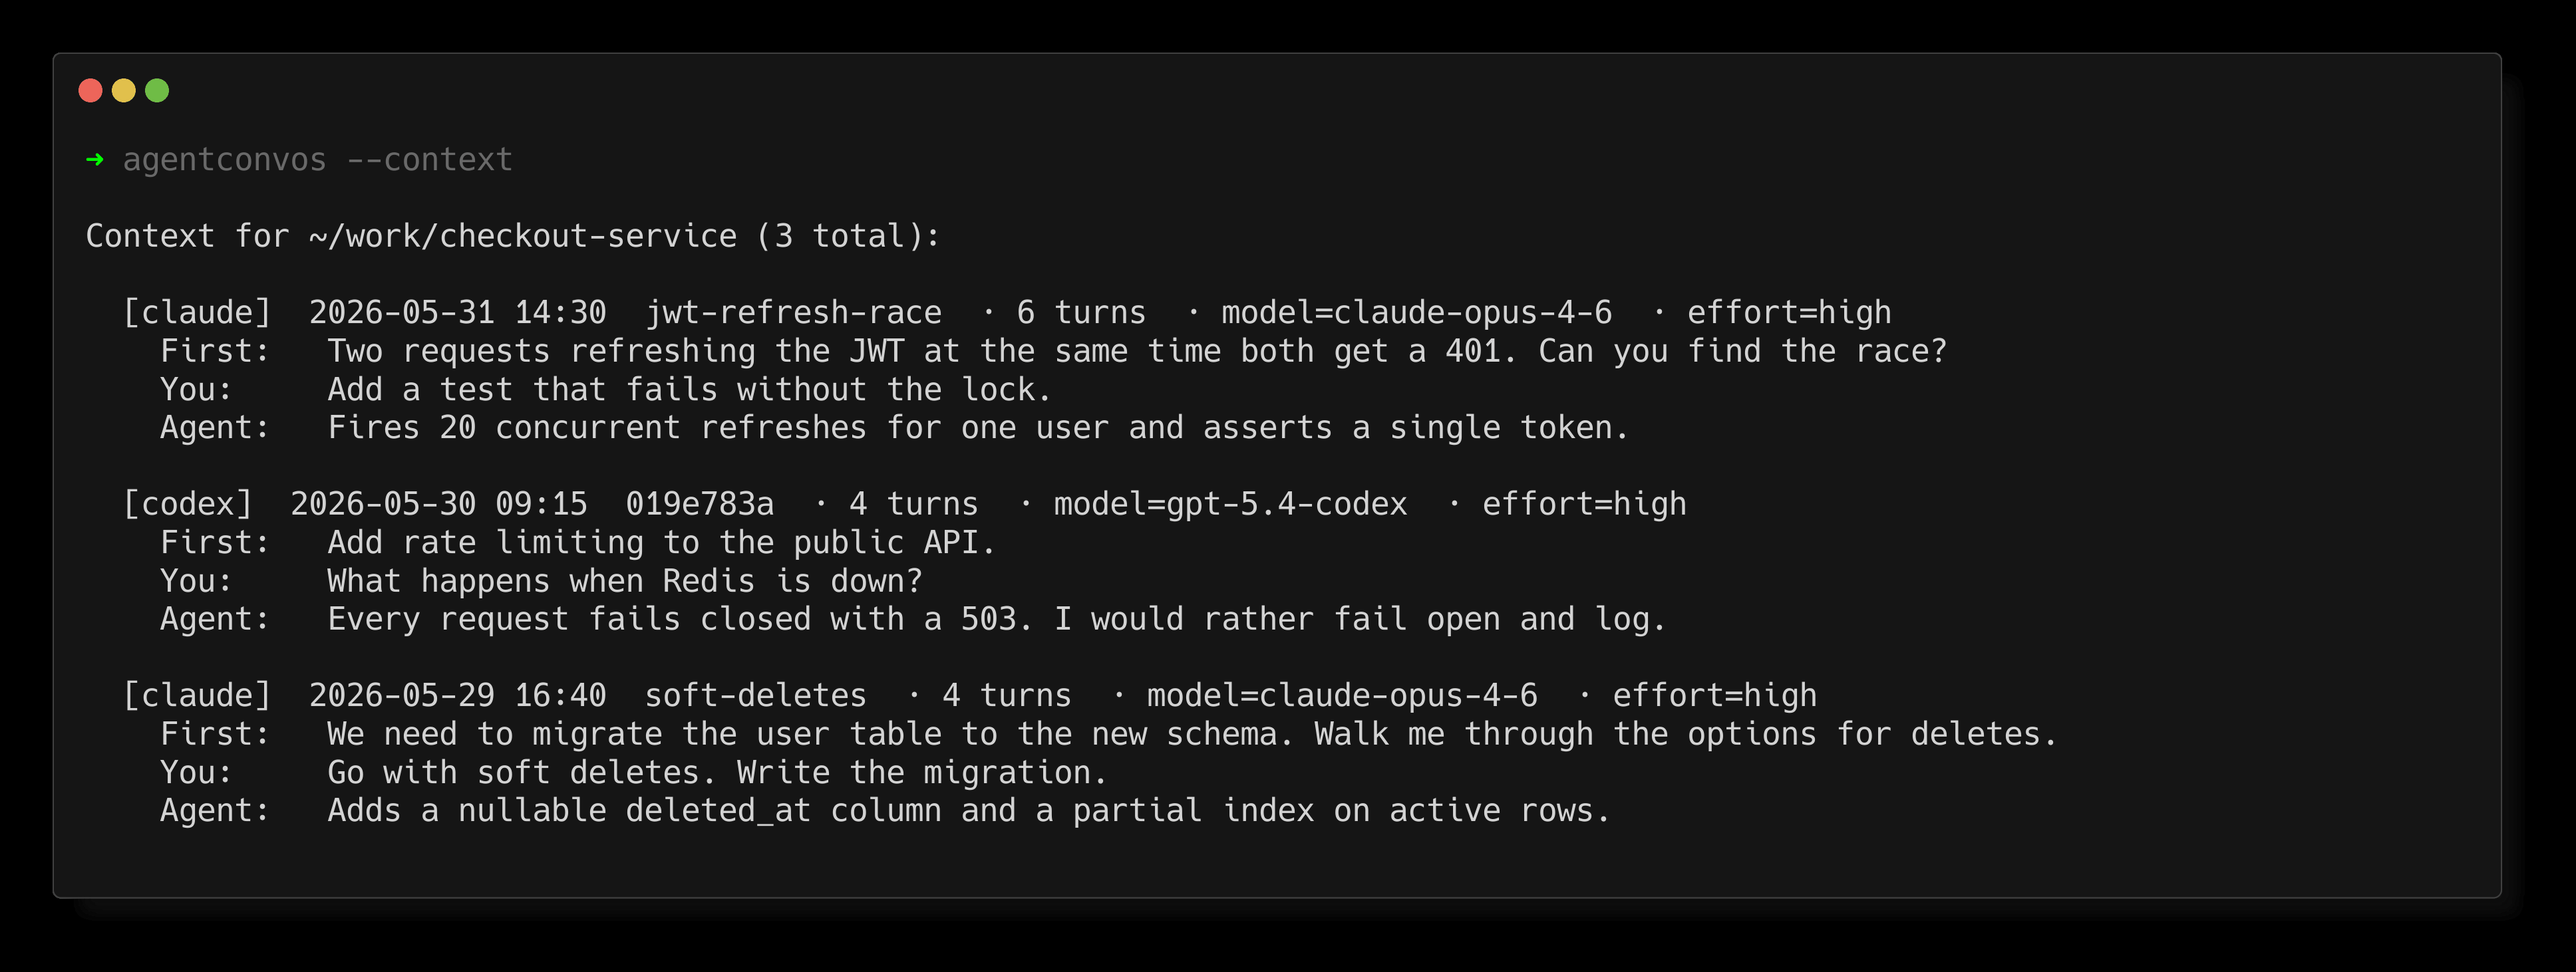
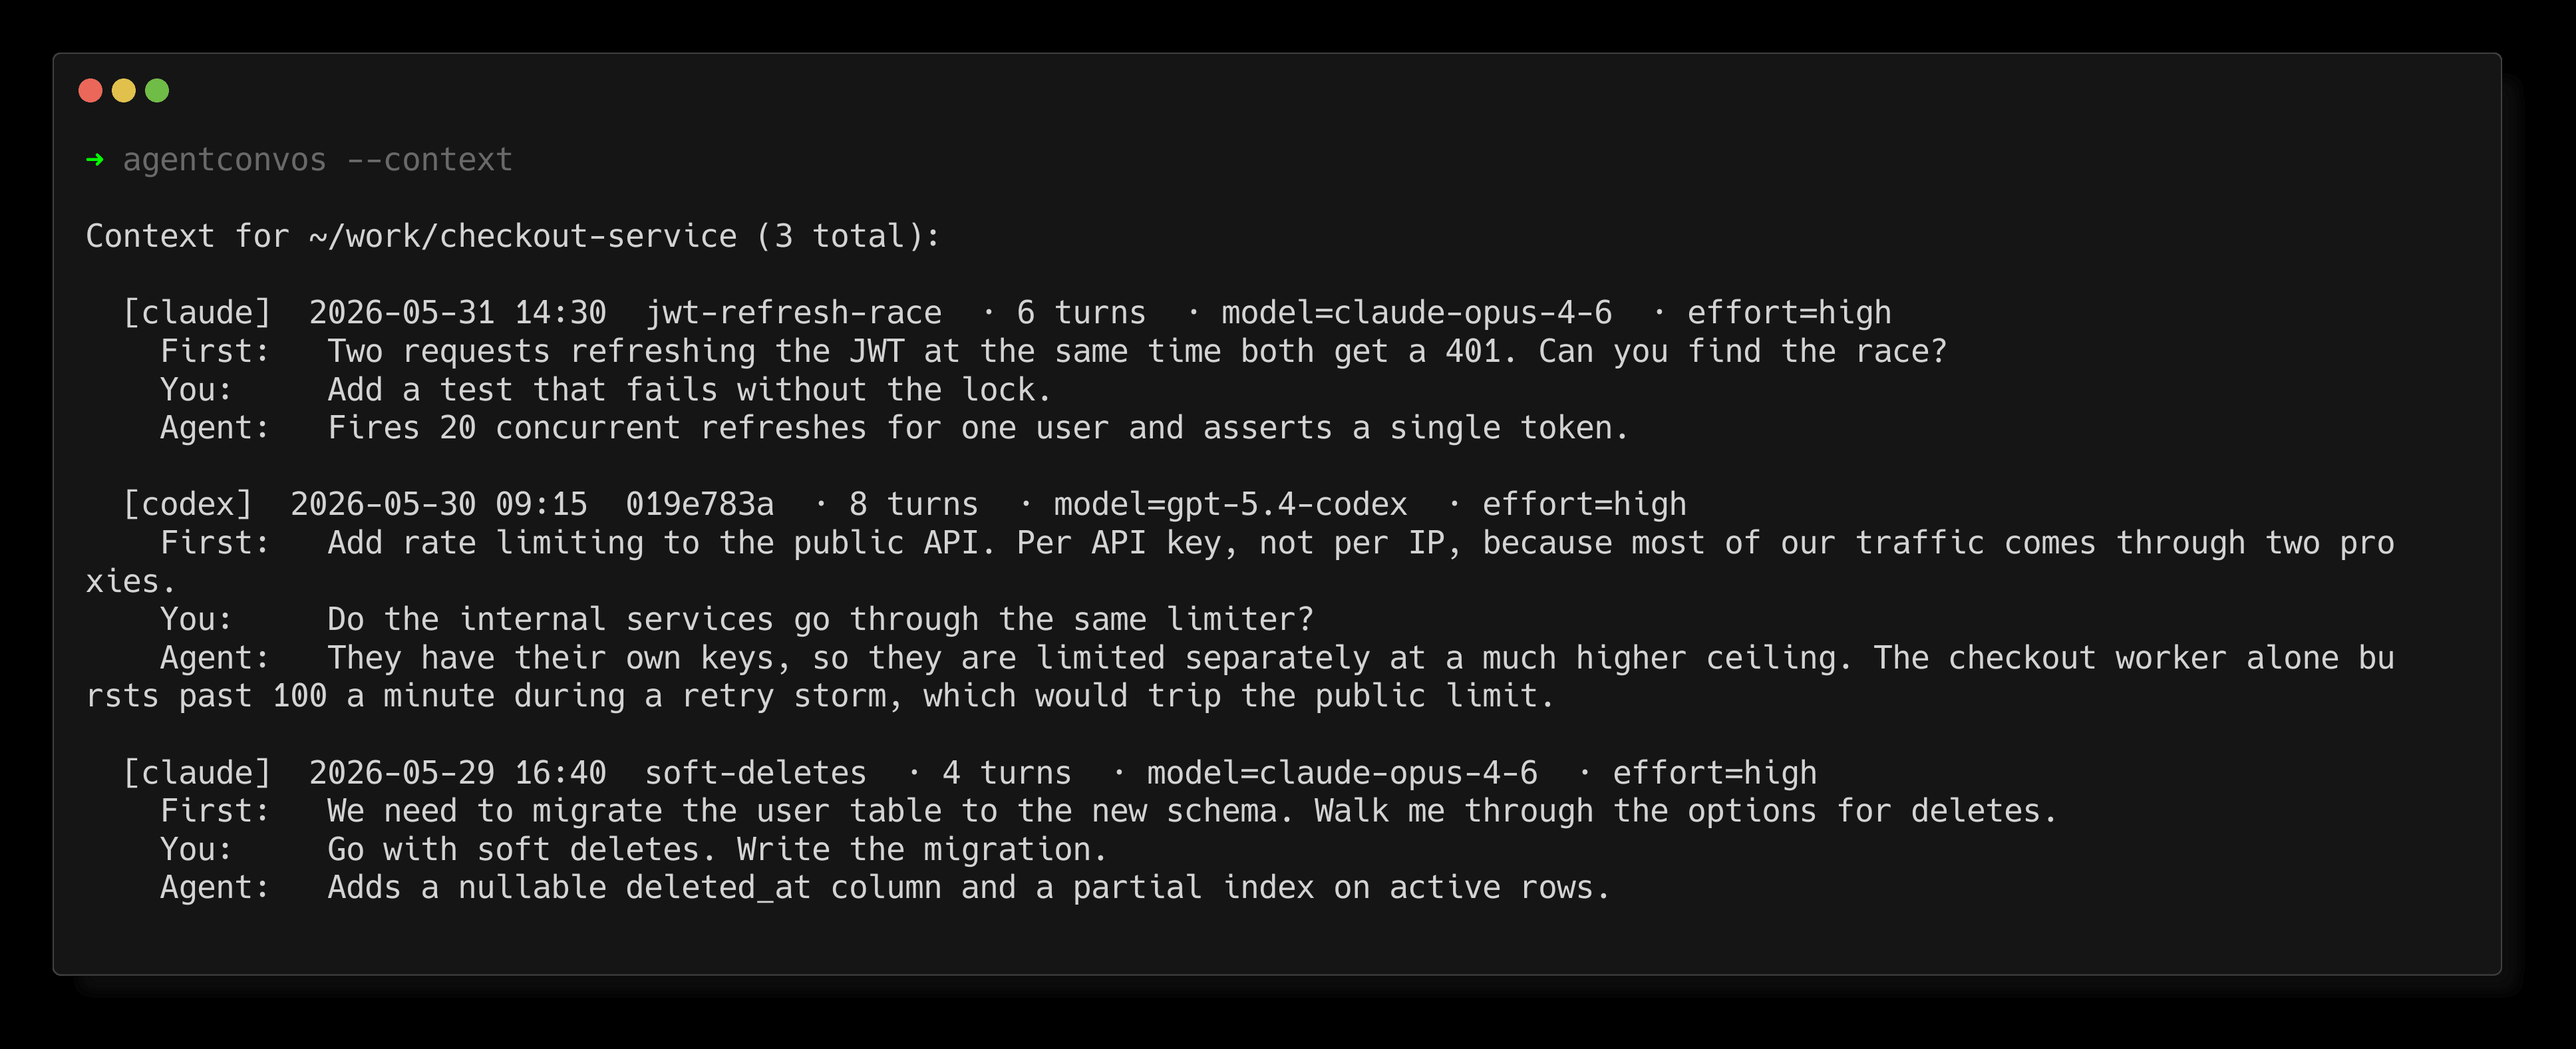
Render touching search matches as one bold span
Searching for "rate limit" and previewing a conversation that mentions
X-RateLimit-Reset produced "X-Rate****Limit-Reset": two adjacent bold
spans emit four asterisks, which markdown renders literally instead of
as bold. Matches that touch are now merged into one span.

The README browser image also moves to the state after pressing Enter,
where focus is on the tree. While the search box has focus the footer
can only show the two keys that work there, so the old capture hid
resume, handoff and the rest of the conversation keys.

diff --git a/scripts/make_demo_archive.py b/scripts/make_demo_archive.py
@@ -127,10 +127,25 @@ claude_session(
 codex_session(
     checkout, "019e783a-e2bb-7ec2-9d2c-def97ab8c003", "2026-05-30T09:15:00",
     [
-        ("Add rate limiting to the public API.",
-         "Token bucket per API key, 100 a minute."),
+        ("Add rate limiting to the public API. Per API key, not per IP, "
+         "because most of our traffic comes through two proxies.",
+         "A token bucket per API key, 100 requests a minute, refilling "
+         "continuously rather than on a fixed window. Fixed windows let a "
+         "caller spend the whole budget in the last second of one window and "
+         "again in the first second of the next."),
         ("What happens when Redis is down?",
-         "Every request fails closed with a 503. I would rather fail open and log."),
+         "Right now every request fails closed with a 503, because the "
+         "middleware treats a missing counter as a full bucket. I would "
+         "rather fail open and log it, since a rate limiter outage should "
+         "not become an API outage."),
+        ("Agreed, fail open. Where do we put the limit headers?",
+         "On every response, not just rejections: X-RateLimit-Limit, "
+         "X-RateLimit-Remaining, and X-RateLimit-Reset. Clients that only "
+         "see them on a 429 have no way to slow down before they get one."),
+        ("Do the internal services go through the same limiter?",
+         "They have their own keys, so they are limited separately at a much "
+         "higher ceiling. The checkout worker alone bursts past 100 a minute "
+         "during a retry storm, which would trip the public limit."),
     ],
 )
 

diff --git a/scripts/capture_tui.py b/scripts/capture_tui.py
@@ -42,13 +42,10 @@ async def main():
             for _ in range(60):
                 await pilot.pause(0.05)
 
-            # Open the first matching conversation so the preview pane shows
-            # a real transcript rather than the search summary.
-            for node in app._walk_tree_nodes():
-                if node.data and node.data.kind == "convo":
-                    tree.select_node(node)
-                    tree.action_select_cursor()
-                    break
+            # Enter opens the highlighted result and moves focus to the tree,
+            # which is also what makes the footer show the conversation keys
+            # instead of only the two that work while typing.
+            await pilot.press("enter")
             for _ in range(60):
                 await pilot.pause(0.05)
 

diff --git a/tests/test_ergonomics.py b/tests/test_ergonomics.py
@@ -101,6 +101,16 @@ class SearchErgonomicsTests(unittest.TestCase):
         self.assertTrue(result.endswith("…"))
         self.assertIn("AUTH MIDDLEWARE", result)
 
+    def test_markdown_highlight_joins_touching_matches(self):
+        """Two matches that touch would emit **** between them, which markdown
+        renders as literal asterisks instead of bold text."""
+        highlight = getattr(app_module, "_highlight_markdown", None)
+
+        self.assertEqual(
+            highlight("X-RateLimit-Reset", ["rate", "limit"]),
+            "X-**RateLimit**-Reset",
+        )
+
     def test_markdown_highlight_makes_matches_visible_in_preview(self):
         highlight = getattr(app_module, "_highlight_markdown", None)
         self.assertIsNotNone(highlight, "preview search highlighting is missing")

diff --git a/src/agentconvos/app.py b/src/agentconvos/app.py
@@ -216,6 +216,11 @@ def _match_ranges(text: str, terms: list[str]) -> list[tuple[int, int]]:
     for start, end in sorted(candidates, key=lambda item: (item[0], -(item[1] - item[0]))):
         if ranges and start < ranges[-1][1]:
             continue
+        if ranges and start == ranges[-1][1]:
+            # Touching matches, as in "rate" + "limit" inside RateLimit. Two
+            # separate bold spans would emit **** and render as asterisks.
+            ranges[-1] = (ranges[-1][0], end)
+            continue
         ranges.append((start, end))
     return ranges
 

diff --git a/README.md b/README.md
@@ -229,19 +229,32 @@ appear live while a first-time index is still filling.
 
 The search box is focused at launch and searches titles, prompts, paths, branches,
 summaries, and full conversation text. Matching context appears directly in the
-tree; press Enter to open the first match. Conversation previews parse lazily and
-highlight the matching turns. Resume asks for confirmation with the agent, working
-directory, full session ID, and command.
+tree. Arrow keys walk the results without leaving the search box, so you can type,
+arrow to the conversation you want, and press Enter to open it. Conversation
+previews parse lazily and highlight the matching turns. Resume asks for
+confirmation with the agent, working directory, full session ID, and command.
+
+Projects are ordered by their most recent conversation, with the project for the
+current directory pinned first. Conversation titles come from the first message
+you actually typed, so slash commands and harness boilerplate do not become the
+name of a session.
+
+Press `?` for the full key list. The headline keys:
 
 | Key | Action |
 |-----|--------|
 | `/` | Focus full-text search |
-| `S` | Toggle select |
+| `↑` `↓` | Walk results while still typing |
+| `Enter` | Open the highlighted conversation |
+| `V` | Read the whole transcript, not just the tail |
 | `R` | Review and resume session |
 | `H` | Handoff to new session |
 | `E` | Export markdown |
 | `A` | Analyze with Gemini |
+| `Y` | Copy the session ID |
+| `S` | Toggle select |
 | `Tab` | Switch panels |
+| `?` | Every key |
 | `Q` | Quit |
 
 ## File locations
